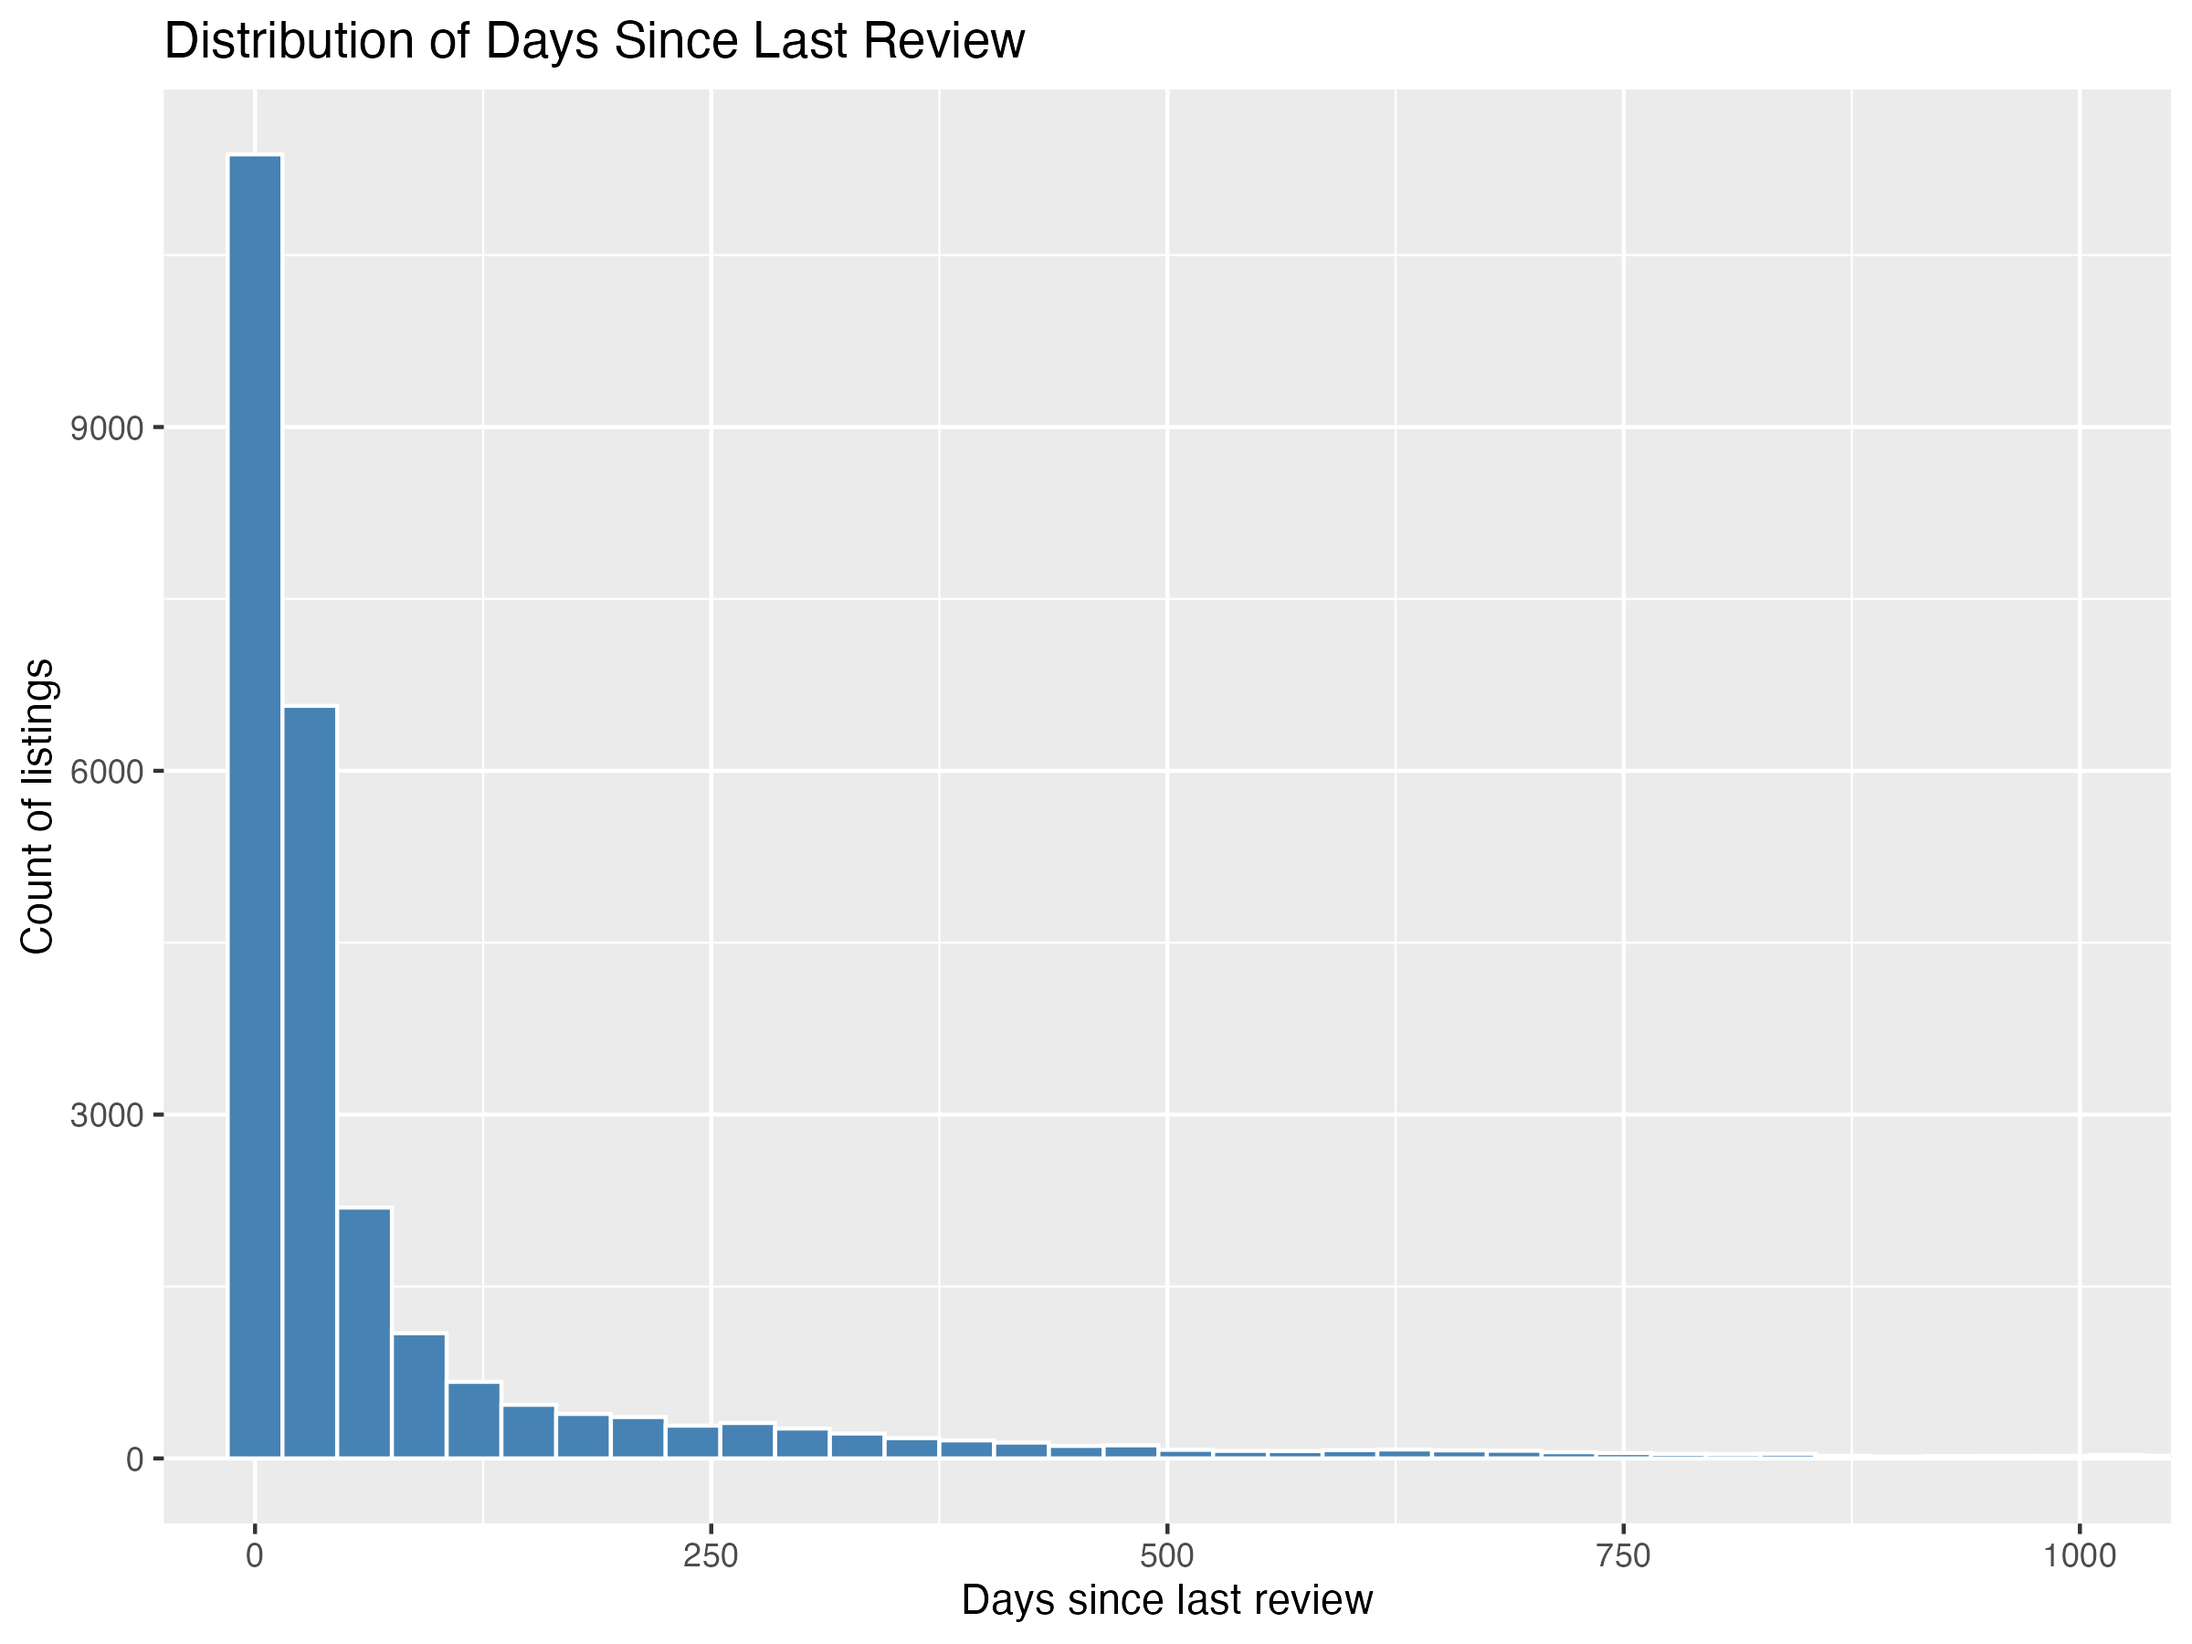
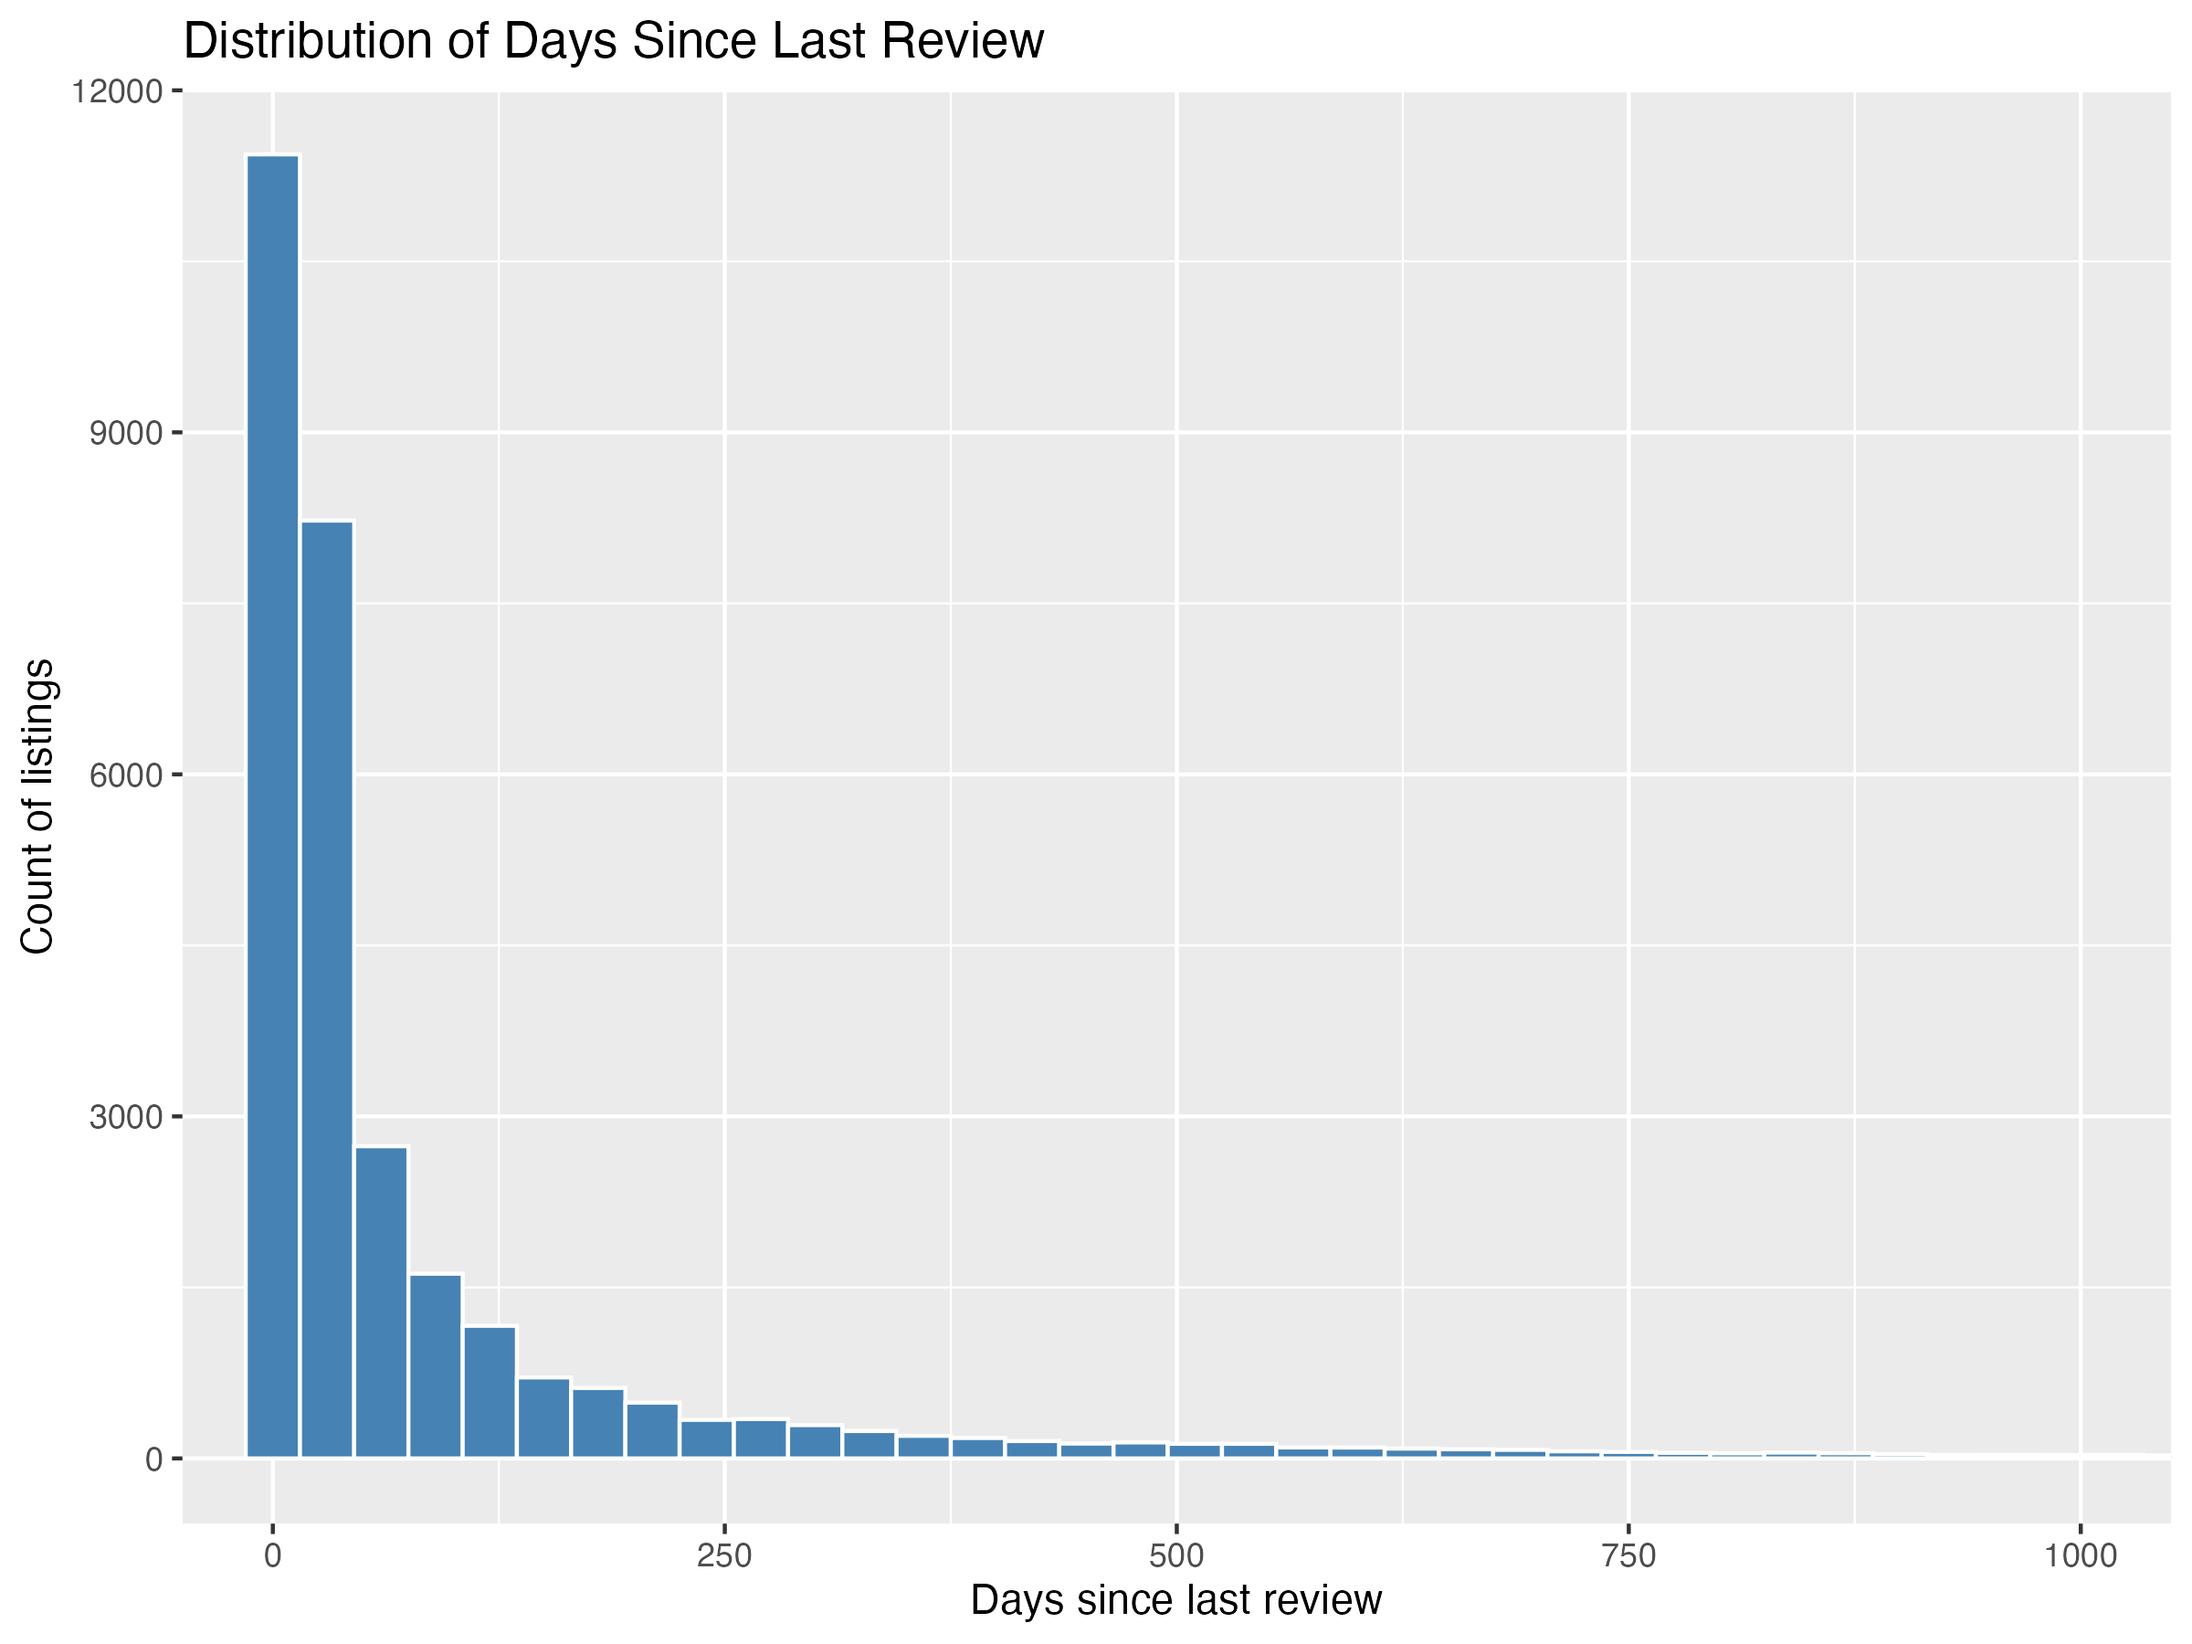
Update D3 ingestion and analyses with July-August 2026 data

diff --git a/README.md b/README.md
@@ -10,6 +10,7 @@ We created a KNIME workflow to explore and analyse Airbnb listings across New Ze
 
 ## Deliverable 3:
 We recreated the deliverable 2 workflow in R
+Added the July 2026 and August 2026 `listings.csv` datasets to Task 1 and updated the analyses and plots.
 
 ## Deliverable 4: 
 We cleaned the air_bnb and bond_data tables ready to compare and analyse them in Deliverable 5.
